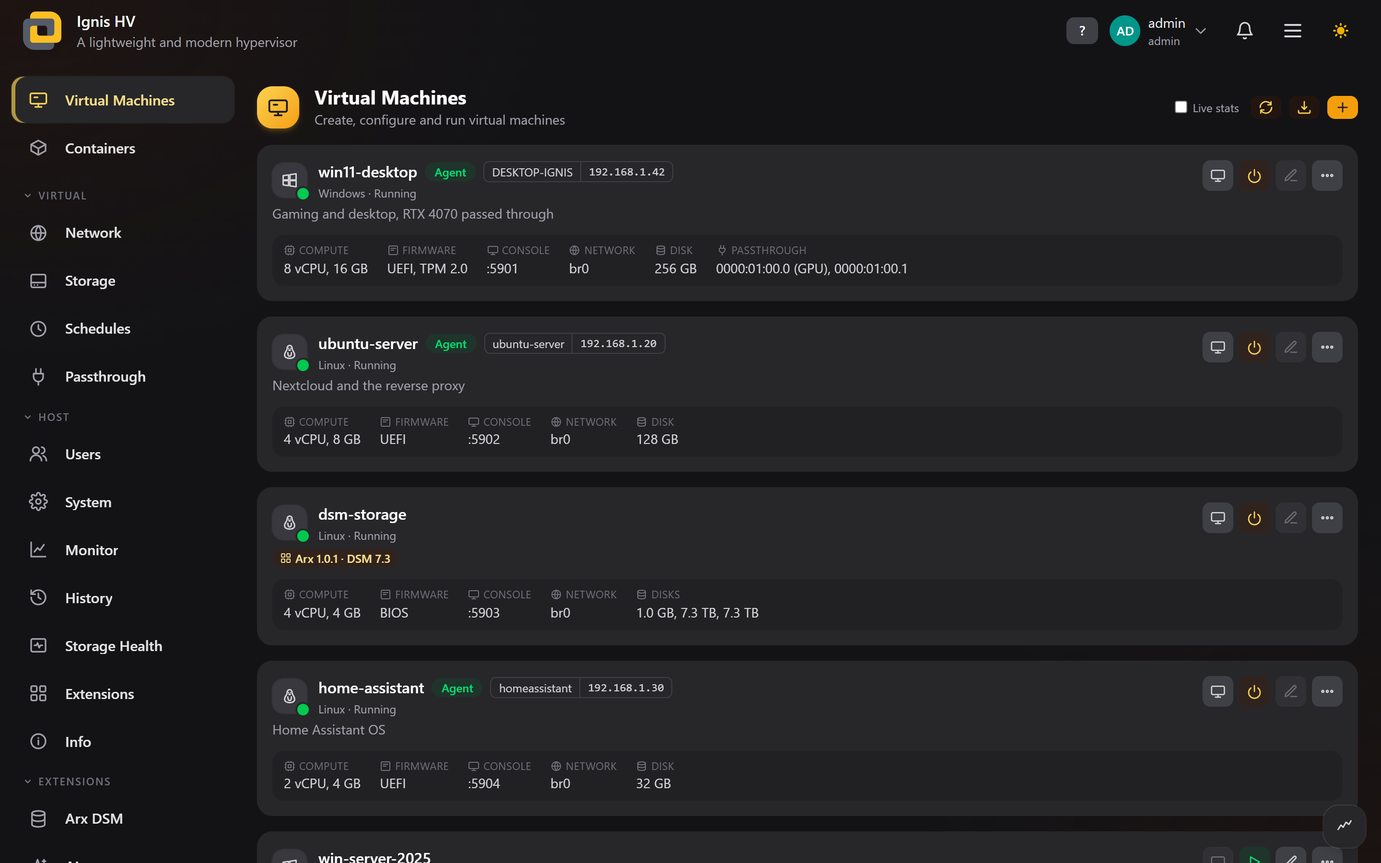
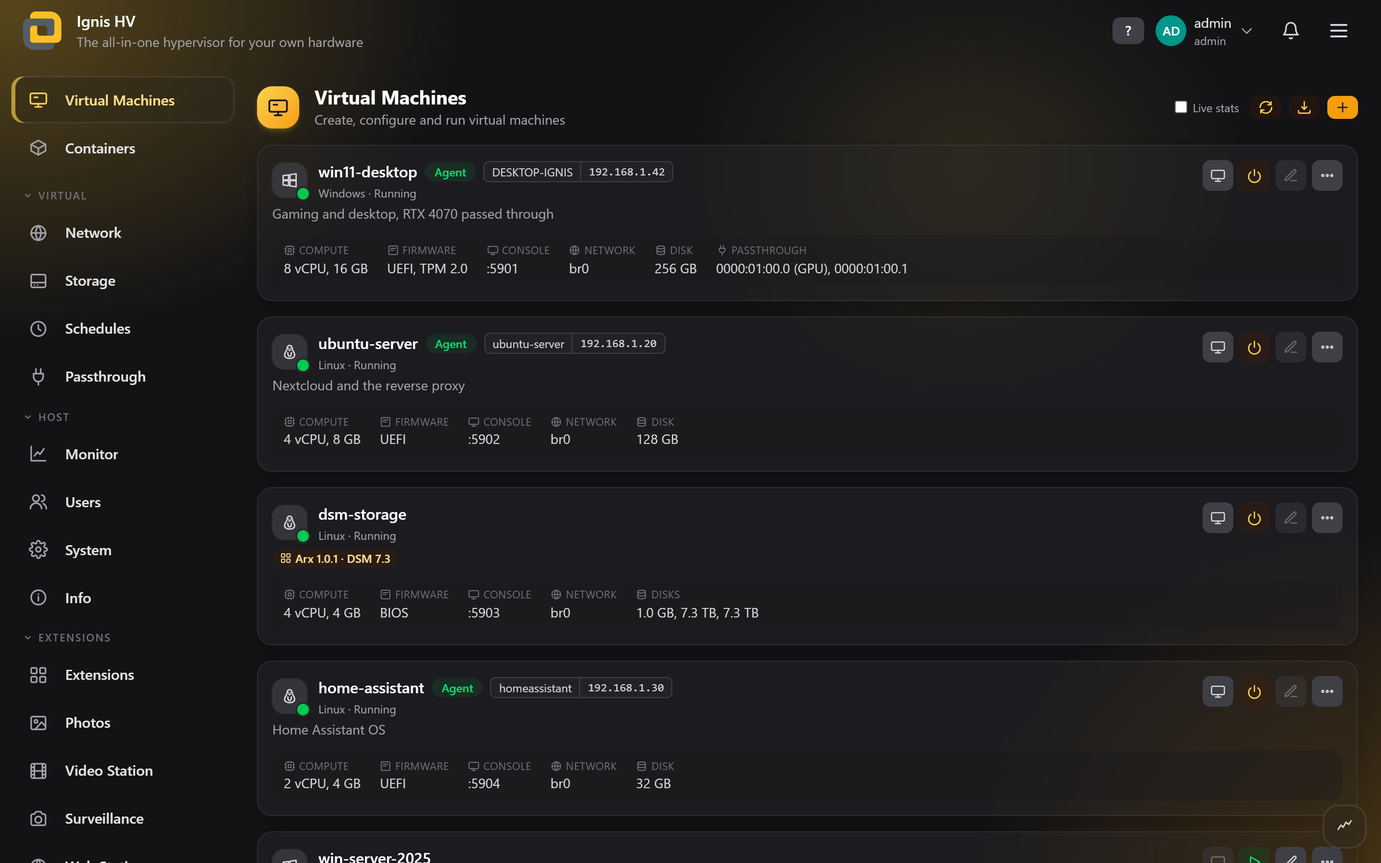
readme: the apps, two-factor sign-in, linked hosts and new screenshots
The README now describes Ignis for users: what each part does, the twenty apps on the Extensions tab, the new tagline, and the current pages. The extensions README lists every extension in plain words and the icons added since October. The six screenshots show the current interface.

diff --git a/README.md b/README.md
@@ -2,9 +2,9 @@
 
 <img width="160" alt="Ignis" src="assets/ignis.svg">
 
-### Ignis — Hypervisor for your own hardware
+### Ignis — The all-in-one hypervisor for your own hardware
 
-Run virtual machines and containers on your own x86-64 PC or server.<br>
+Run virtual machines, containers and apps on your own x86-64 PC or server.<br>
 Install it once, then manage everything from your browser.
 
 <a href="https://github.com/AuxXxilium/ignis-hv/releases/latest"><img alt="Download" src="https://img.shields.io/badge/download-red?style=for-the-badge&label=latest&color=%23FF0000"></a>
@@ -29,86 +29,125 @@ Install it once, then manage everything from your browser.
 
 ## ✨ What Ignis does
 
-Ignis turns a PC or server into a small, dedicated host for virtual machines and containers. You install it from a USB stick, and from then on everything is done in the browser at `https://<your-ignis-address>`. No desktop, no separate management tool.
+Ignis turns a PC or server into a small, dedicated host for virtual machines, containers and apps. You install it from a USB stick, and from then on you do everything in your browser at `https://<your-ignis-address>`. You don't need a desktop or any other program.
 
-* **Virtual machines**: create, edit, clone and run Windows, Windows Server and Linux machines, with BIOS or UEFI and Secure Boot. Each machine can have its own TPM 2.0, so Windows 11 installs without workarounds
-* **CPU of your choice**: give a machine the host's own processor, or a named generation from Core 2 to Zen 5 that it can keep when it moves to other hardware. Ignis says what the host cannot provide
-* **Screen in the browser**: open any machine's display in a browser tab, change its CD/DVD while it runs, and read its serial output even after it has stopped
-* **Snapshots and schedules**: take snapshots and roll back to them, and start, shut down, snapshot or back up machines on a timetable. Old snapshots are cleaned up for you
+### 🖥 Virtual machines
+
+* **Windows and Linux**: create, edit, clone and run Windows, Windows Server and Linux machines. Each machine can have its own TPM 2.0 and Secure Boot with Microsoft's keys, so Windows 11 installs without workarounds
+* **Screen in the browser**: open a machine's display in a browser tab. You can change its CD/DVD, and shut it down, reset it or power it off from the same window
+* **Snapshots and backups**: save a machine's state and go back to it. Back it up on a timetable, and old snapshots are cleaned up for you
+* **Import and export**: bring in machines from ESXi, Hyper-V, VirtualBox or an `.ova` file, and export them as `.ova` for other systems
+* **Your choice of CPU**: give a machine the host's own processor, or a fixed generation it keeps when you move it to other hardware
+* **Passthrough**: give a machine a real graphics card, network card, disk controller, USB device or a whole disk
 * **Start at boot**: choose which machines start with the host, and in what order
-* **Import and export**: bring in an `.ova` or disks from ESXi, Hyper-V or VirtualBox, which are converted for you. Export a machine as an `.ova` that other hypervisors accept, in the background with a progress bar, or on a schedule as a backup
-* **Containers**: run Docker containers and compose projects next to your machines. You can update them by hand or on a schedule, and give each one a disk priority. Docker is an optional extension, installed from the Extensions tab like any other and updated on its own
-* **Passthrough**: give a machine a real graphics card, network card, disk controller, USB device or whole disk. Ignis shows which devices can be handed over safely
-* **NVIDIA for containers**: an optional extension adds the NVIDIA driver, so containers can use the GPU
-* **3D graphics for Linux machines**: an optional extension adds a VirtIO GPU (3D), which draws a Linux guest's OpenGL and Vulkan on the host's Intel, AMD or NVIDIA GPU, with no card passed through
-* **Firewall**: an optional extension decides which services on the appliance can be reached, and from where. The web interface, SSH and the consoles always stay open, and a change undoes itself unless you confirm it
-* **AdGuard Home**: an optional extension runs AdGuard Home natively on the appliance as the DNS server for your network, and you control it from inside Ignis
-* **Network shares**: an optional extension shares folders on your storage over SMB, the way a NAS does, with share-only accounts
-* **DSM machines**: an optional extension sets up Synology DSM machines on the Arx loader, ready for DSM's installer on the first start, and keeps their loader up to date
-* **AI**: an optional extension runs language models on the appliance with Ollama, on its NVIDIA, Intel or AMD GPU (CUDA, Vulkan or ROCm), beside online providers such as OpenAI, Anthropic and Gemini with your own keys. One chat for all of them, and one OpenAI- and Ollama-compatible API with its own tokens, so other apps use every model without holding a provider's key
-* **Storage**: install to one disk or several with software RAID, and add more disks later as extra volumes (ext4, XFS or btrfs, alone or as RAID)
-* **Storage health**: see the errors your disks, arrays and filesystems have recorded, run self-tests and read-only surface scans, check all data for silent damage once a month, and let idle disks spin down
-* **History**: what the host and each machine did, recorded in the background — CPU, memory, temperatures, fans, disks and network for the host, and CPU, memory, disk and network for every machine — kept at full detail for two days and as 15-minute averages for a month, with CSV export. Recording never keeps a disk from spinning down
-* **Networking**: private networks with NAT, or bridges that put machines directly on your network. VLANs and bonded network cards are supported
+
+### 📦 Containers
+
+* **Docker in the browser**: create and run containers and compose projects, see their logs and live usage, and manage their networks and volumes
+* **Easy updates**: update by hand or on a timetable. If an update fails, the old version comes back
+
+### 🗄 Storage and the host
+
+* **Disks your way**: the system on one disk or a mirror, your data on one disk or software RAID. Add more disks later as extra volumes
+* **Storage Health**: see disk errors, run disk tests, check your data for hidden damage once a month, and let idle disks spin down
+* **Monitor and History**: what the host and every machine are doing right now, and over the last hour, day, week or month
+* **Several hosts as one**: link your Ignis hosts and run their machines from one interface. A machine can have a standby copy on a second host, ready if the first one fails
+* **For your smart home**: a read-only interface for Home Assistant, Prometheus and similar apps
+
+### 🌐 Network
+
+* **Networks for your machines**: private networks, or bridges that put machines straight on your network. VLANs and bonded network cards are supported, also per machine
+* **HTTPS**: with your own certificate or a free one from Let's Encrypt
+
+### 🔐 Sign-in and security
+
 * **Users and roles**: admin, operator and viewer accounts, each limited to the machines and pages you choose
-* **Host controls**: live monitoring, CPU speed and power settings, fan curves, time, services, and HTTPS with your own certificate or a free one from Let's Encrypt
-* **Extensions**: add services, commands or pages to the appliance, and they survive updates. Install and update them from the Ignis releases on the Extensions tab, or upload your own
-* **Safe updates**: install the newest release straight from the System tab, or a version from a file or a link. The previous version is kept, so you can go back to it from the boot menu
+* **Two-factor sign-in**: with an authenticator app, recovery codes for emergencies and codes by email. A browser you trust can skip the code for 30 days
+* **Screen lock**: Ignis locks itself after the time you choose, and you unlock it with your password
+
+### 🧩 Apps
+
+Add apps from the **Extensions** tab. Install only the ones you need; each one is updated on its own, apart from Ignis.
+
+| App | What it does |
+| :-- | :-- |
+| **Docker** | Runs containers on the Containers page |
+| **Network Shares** | Shares folders over SMB like a NAS, and over SFTP and FTPS if you want |
+| **Drive** | Your shared folders in the browser: upload, preview, and share files with a link, also with people who have no account |
+| **Photos** | Your photos as a timeline and in albums, sorted by people, places and things. Edit and share them |
+| **Video Station** | Your movies and TV shows with posters, played in the browser. Also plays on TVs, consoles and Kodi |
+| **Surveillance** | Records your IP cameras, live view in a grid, motion events and playback. Can recognise people, vehicles, faces and number plates, and alert you |
+| **Download Station** | Downloads links, torrents and magnet links into a folder you choose |
+| **Web Station** | Hosts your own websites with PHP and databases, including WordPress in one click, each with its own certificate |
+| **Mail Server** | Email for your own domain, with webmail, a spam filter and help with the DNS settings |
+| **VPN** | Reach your home network from anywhere with WireGuard, OpenVPN, IPsec or Tailscale, or send machines and containers through a VPN |
+| **SAN Manager** | Offers storage to other computers over iSCSI |
+| **Game Servers** | Runs servers for Minecraft, Valheim, Factorio and about 145 more games, with a console, backups and timetables |
+| **AI** | Runs language models on your own GPU, beside online services such as OpenAI, Anthropic and Gemini, all in one chat |
+| **DSM machines** | Sets up Synology DSM machines with the Arx loader and keeps the loader up to date |
+| **AdGuard Home** | Blocks ads and trackers for your whole network as its DNS server |
+| **DHCP Server** | Hands out addresses on the networks you choose |
+| **Firewall** | Decides who can reach which service on Ignis, and can filter traffic between two network ports |
+| **NVIDIA** | The NVIDIA driver, so containers can use the GPU |
+| **Video Compute Runtime** | Video conversion on your GPU for the media apps, and 3D graphics for Linux machines without passing a card through |
+| **Vision Runtime** | The image recognition that Photos and Surveillance use |
+
+> [!NOTE]
+> Some of these apps are brand new. If one is not on the Extensions tab yet, it comes with one of the next releases. **Web Station** needs ports 80 and 443 for your websites, so it moves the Ignis interface to ports 8080 and 8443. It asks you to confirm the move first.
+
+You can also make an app of your own. See [extensions](extensions/README.md).
 
 ---
 
 ## 🧭 How it works
 
 ```
-USB stick → Installer → choose disks and RAID → Ignis on the machine's own disks
-                                                   └─ web interface at https://<address>
-                                                        ├─ virtual machines (KVM/QEMU)
-                                                        ├─ containers (Docker)
-                                                        └─ host: storage, network, users, updates
+USB stick → Installer → choose disks → Ignis on the machine's own disks
+                                          └─ web interface at https://<address>
+                                               ├─ virtual machines
+                                               ├─ containers
+                                               ├─ apps
+                                               └─ host: storage, network, users, updates
 ```
 
-Ignis keeps two things apart: **the system**, which is small and replaced as a whole by each update, and **your data**: machines, disk images, ISOs, containers and settings. Your data lives on its own volume, so an update never touches it and a failed update can be undone.
+Ignis keeps two things apart: **the system**, which each update replaces as a whole, and **your data**: machines, disk images, containers, apps and settings. Your data lives on a volume of its own, so an update never touches it, and a failed update can be undone.
 
 ---
 
-## 🖥 The web interface
+## 🖱 The web interface
 
 | Page | What you do there |
 | :-- | :-- |
-| **Virtual Machines** | Create, start, stop and edit machines, open their display, change discs, take snapshots, clone, import and export as `.ova` |
-| **Containers** | Run containers and compose projects, pull images, update and clean up |
-| **Network** | Private and bridged networks for machines, plus the host's own address, VLANs and bonds |
-| **Storage** | Disk images, ISOs, uploads and extra storage volumes |
-| **Schedules** | Timed start, shutdown, snapshot, `.ova` backup, container update and data check tasks |
-| **Passthrough** | Graphics cards, PCI devices and USB devices that machines can use |
-| **Users** | Accounts, roles, and which machines and pages each user sees |
-| **System** | Network, time, services, HTTPS and updates |
-| **Monitor** | Live CPU, memory, network and temperature readings, plus CPU and fan control |
-| **History** | What the host and each machine did over the last hour, day, week or month, with CSV export |
-| **Storage Health** | Disk, RAID and filesystem errors, self-tests, surface scans, the monthly data check and disk spin-down |
-| **Extensions** | Install, update, enable and remove extensions, from the Ignis releases or your own upload |
+| **Virtual Machines** | Create, start, stop and edit machines, open their display, take snapshots, clone, import and export |
+| **Containers** | Run containers and compose projects, see their logs and usage, update and clean up |
+| **Network** | Networks for your machines, VLANs and bonds |
+| **Storage** | Disk images, ISOs, uploads and extra volumes, shown like a file manager |
+| **Schedules** | Timed start, shutdown, snapshot, backup, container and data check tasks |
+| **Passthrough** | Graphics cards, PCI and USB devices your machines can use |
+| **Monitor** | The host right now, its **History** over time, and **Storage Health** |
+| **Users** | Accounts, roles, and who sees which machines and pages |
+| **System** | The host's name, network, time, CPU and fans, linked hosts, the smart home interface, email, services, updates and a terminal |
+| **Extensions** | Install, update, turn on and remove apps |
 | **Info** | What this host supports, and a report to copy into a bug report |
 
-Every page has a **?** button with help written for that page, including what common error messages mean.
+Every page has a **?** button with help for that page.
 
-On **Monitor**, **History** and **Storage Health** you arrange the cards yourself: drag them where you want them and make them as wide as you like.
-
-The interface has a light and a dark mode and several accent colours to choose from.
+Pick the look you like from the account menu: a light or dark mode, an accent colour, and either the classic layout with a sidebar or a **desktop** where every page opens in a window of its own, with a taskbar and wallpapers.
 
 ### 📸 A look inside
 
 <table>
   <tr>
-    <td width="50%"><img alt="Monitor: live CPU, memory, load and every core" src="assets/screenshots/monitor.png"><br><sub><b>Monitor</b>: the host right now, down to every core and its clock</sub></td>
-    <td width="50%"><img alt="History: the last day of CPU, memory, temperatures, fans and network" src="assets/screenshots/history.png"><br><sub><b>History</b>: the last hour, day, week or month, host and machines</sub></td>
+    <td width="50%"><img alt="Monitor: live CPU, memory, load and every core" src="assets/screenshots/monitor.png"><br><sub><b>Monitor</b>: the host right now, down to every core</sub></td>
+    <td width="50%"><img alt="History: the last day of CPU, memory, temperatures, fans and network" src="assets/screenshots/history.png"><br><sub><b>History</b>: the last hour, day, week or month</sub></td>
   </tr>
   <tr>
-    <td width="50%"><img alt="The machine editor on its General tab" src="assets/screenshots/vm-editor.png"><br><sub><b>Machine editor</b>: CPU, memory, firmware, TPM and the guest's OS on one tab</sub></td>
-    <td width="50%"><img alt="Containers: Docker, its containers and a compose project" src="assets/screenshots/containers.png"><br><sub><b>Containers</b>: Docker containers and compose projects beside the machines</sub></td>
+    <td width="50%"><img alt="The machine editor on its General tab" src="assets/screenshots/vm-editor.png"><br><sub><b>Machine editor</b>: CPU, memory, firmware and TPM on one tab</sub></td>
+    <td width="50%"><img alt="Containers: the container list with an immich compose project" src="assets/screenshots/containers.png"><br><sub><b>Containers</b>: containers with their logs, details and updates, beside the machines</sub></td>
   </tr>
   <tr>
-    <td width="50%"><img alt="Extensions: Docker, Arx DSM, AI, AdGuard Home, Firewall and Network Shares" src="assets/screenshots/extensions.png"><br><sub><b>Extensions</b>: add only what you use, each updated on its own</sub></td>
-    <td width="50%"><img alt="Virtual Machines in the dark mode" src="assets/screenshots/machines.png"><br><sub><b>Virtual Machines</b>: guest agent, addresses and passthrough at a glance</sub></td>
+    <td width="50%"><img alt="Extensions: apps to download and the ones installed" src="assets/screenshots/extensions.png"><br><sub><b>Extensions</b>: install the apps you want, each updated on its own</sub></td>
+    <td width="50%"><img alt="Virtual Machines in the dark mode" src="assets/screenshots/machines.png"><br><sub><b>Virtual Machines</b>: everything about a machine at a glance</sub></td>
   </tr>
 </table>
 
@@ -118,49 +157,49 @@ The interface has a light and a dark mode and several accent colours to choose f
 
 ## 📋 What you need
 
-* An x86-64 machine you own, with virtualisation (Intel VT-x or AMD-V) turned on in the bios
-* For passthrough: an IOMMU (Intel VT-d or AMD-Vi), also turned on in the bios
+* An x86-64 PC or server, with virtualisation (Intel VT-x or AMD-V) turned on in the BIOS
+* For passthrough: Intel VT-d or AMD-Vi, also turned on in the BIOS
 * A USB stick for the installer
-* One or more disks for Ignis. 64 GB or more is a good start, and your machines need room on top of that
+* At least one disk for Ignis. 64 GB or more is a good start, plus room for your machines
 * Two or more disks if you want RAID
 * A wired network
 
-The **Info** page shows what your host supports once Ignis is running, and says what is missing if something is.
+Once Ignis is running, the **Info** page shows what your host supports, and what is missing.
 
 ---
 
 ## 💿 Installing
 
 1. Download the latest ISO from the [releases](https://github.com/AuxXxilium/ignis-hv/releases/latest) and write it to a USB stick
-2. Boot the machine from the stick and choose **Install**
+2. Start the machine from the stick and choose **Install**
 3. Pick the disks to install to. **Everything on them is erased**
-4. Choose how the disks work together, for the system and for your data separately: a single disk, a mirror, or another RAID level. Only the levels your disk count allows are offered
+4. Choose where the system goes (one disk or a mirror) and how the disks for your data work together. Only the options your disks allow are offered
 5. Set a root password
-6. Remove the stick and reboot. The screen shows the address to open in your browser. Sign in as `root`
+6. Remove the stick and restart. The screen shows the address to open in your browser. Sign in as `root`
 
-With several disks, Ignis puts a boot loader on every one of them, so the machine still boots if one disk fails.
+With several disks, every disk can start Ignis, so the machine still boots if one of them fails.
 
 ---
 
 ## ⬆ Updates
 
-Updates are done under **System → Update**. It shows the newest release that carries an update, and **Download and stage** fetches it on the appliance and checks it against the SHA-256 GitHub records for the file. You can also give it an update file, or a link to one from the [releases](https://github.com/AuxXxilium/ignis-hv/releases/latest). Ignis prepares the new version next to the running one, and your machines keep running while it does. When you click **Apply**, it restarts into the new version.
+Ignis checks for new releases by itself and tells you through the bell at the top. You install them under **System → Update**: **Download and stage** fetches the new version and checks it, and your machines keep running meanwhile. **Apply** restarts into the new version.
 
-Extensions are updated on their own, from the **Extensions** tab: it lists what the releases offer for your system and installs or updates it there.
+Apps are updated on their own, on the **Extensions** tab.
 
-Your settings, passwords and certificates are carried across. Machines, disk images, containers, networks and users are never touched by an update.
+Your settings, passwords and certificates are kept. Machines, disk images, containers, networks, users and app data are never touched by an update.
 
-The previous version is kept for one update cycle. If something is wrong, choose it from the boot menu to go back.
+The previous version is kept. If something is wrong after an update, choose it from the boot menu to go back.
 
 ---
 
 ## 🔒 Security
 
-* Every action in the interface checks who is signed in and what they are allowed to do. Hiding a page in the interface is not what protects it
-* Failed sign-ins are rate-limited, and repeated guessing at the login page or SSH gets the address blocked for a while
-* A machine's display is only reachable through the signed-in web interface, never directly over the network
-* HTTPS is available with a self-signed certificate, one you upload, or a free one from Let's Encrypt
-* Extensions and containers run with a lot of access to the host, so install only what you trust. Only admins can manage them
+* Every action checks who is signed in and what they may do
+* Repeated wrong passwords at the login page or over SSH get the address blocked for a while
+* Two-factor sign-in and the screen lock protect your account, even on a shared computer
+* A machine's display can only be opened through the signed-in web interface
+* Apps and containers have a lot of access to the host, so install only what you trust. Only admins can manage them
 
 ---
 

diff --git a/extensions/README.md b/extensions/README.md
@@ -48,19 +48,29 @@ publish, and installs or updates it from there:
 
 | Extension | What it is |
 | :-- | :-- |
-| `ignis-docker` | Docker Engine, containerd, runc and Compose for the Containers tab: Docker's own static release, so it survives Ignis updates and is updated on its own. Docker still starts at boot, as it always did. Images and containers stay on disk while it is disabled |
-| `ignis-firewall` | Which services on the appliance can be reached, and from where. The web interface, SSH and the consoles always stay open, and every change undoes itself after a minute unless you confirm it. Locked out anyway? `ignis-ext disable ignis-firewall` on the console |
-| `ignis-adguard` | AdGuard Home, running natively as the DNS server for your network. Controlled from its page in Ignis, with AdGuard's own interface a click away. Needs port 53, so dnsmasq must be off under **System > Services** |
-| `ignis-shares` | Folders on your storage shared over SMB, like a NAS. Accounts made here open the shares and nothing else. Needs **SMB** on under **System > Services** |
-| `ignis-arx` | Synology DSM machines on the Arx loader. Makes the machine, downloads and checks the newest loader, and can configure it so the first start goes straight to DSM's installer. Updates the loader later while keeping its configuration. The machines are ordinary ones in **Machines**, where their card shows the loader and DSM versions |
-| `ignis-ai` | Local language models with Ollama on the appliance's NVIDIA, Intel or AMD GPU, beside the online providers (OpenAI, Anthropic, Gemini and a dozen more, or any endpoint of your own): one chat, and one OpenAI- and Ollama-compatible API with its own tokens for other apps. Ported from Arc AI. The engine is downloaded from its page, and it and the models live on the data volume: uninstalling removes the engine and keeps the models. Intel and AMD GPUs compute through the Vulkan drivers built into Ignis |
-| `ignis-nvidia` | The NVIDIA driver for containers. Built for one Ignis release's kernel: the tab offers only the package for the kernel your system runs, and a release that changes the kernel carries a new one |
-| `ignis-gpu3d` | VirtIO GPU (3D) for Linux machines: their OpenGL and Vulkan drawn on the host's Intel, AMD or NVIDIA GPU, with no card passed through. Nothing is added to the system; only a machine with the 3D display uses it. Built with one Ignis release's QEMU, so after an update the machine editor stops offering 3D until the package for the new release is installed, which the tab offers |
+| `ignis-docker` | Docker for the Containers page. Images and containers stay on disk while it is turned off |
+| `ignis-shares` | Network Shares: folders shared over SMB like a NAS, and over SFTP and FTPS if you want. Accounts made here open the shares and nothing else |
+| `ignis-drive` | Drive: the shared folders in the browser, with uploads, previews and share links for people without an account |
+| `ignis-photos` | Photos: a timeline, albums, people, places and things, editing and sharing |
+| `ignis-video` | Video Station: movies and TV shows in the browser, and a DLNA server for TVs, consoles and Kodi |
+| `ignis-surveillance` | Surveillance: records IP cameras, live view, motion events and playback, and recognises people, vehicles, faces and plates |
+| `ignis-downloads` | Download Station: links, torrents and magnet links into a folder you choose |
+| `ignis-web` | Web Station: your own websites with PHP and databases, WordPress in one click. Takes ports 80 and 443, so the interface moves to 8080 and 8443 |
+| `ignis-mail` | Mail Server: email for your own domain, with webmail and a spam filter. Needs Web Station for webmail |
+| `ignis-vpn` | VPN: WireGuard, OpenVPN, IPsec and Tailscale, to reach home or to send machines and containers through a VPN |
+| `ignis-san` | SAN Manager: storage for other computers over iSCSI |
+| `ignis-games` | Game Servers: about 150 games, with a console, backups and timetables. Needs Docker |
+| `ignis-ai` | AI: language models on your own GPU beside online services, in one chat, with an API for other apps |
+| `ignis-arx` | Synology DSM machines on the Arx loader, kept up to date |
+| `ignis-adguard` | AdGuard Home as the DNS server for your network. Needs port 53, so dnsmasq must be off under **System > Services** |
+| `ignis-dhcp` | A DHCP server for the networks you choose |
+| `ignis-firewall` | Who can reach which service, and filtering between two network ports. The interface, SSH and the consoles always stay open, and a change undoes itself unless you confirm it. Locked out anyway? `ignis-ext disable ignis-firewall` on the console |
+| `ignis-nvidia` | The NVIDIA driver for containers. Made for one Ignis release's kernel, so the tab offers the one that fits your system |
+| `ignis-vcrt` | Video Compute Runtime: video conversion on the GPU for the media apps, and 3D graphics for Linux machines. Made for one Ignis release, so the tab offers the one that fits |
+| `ignis-vision` | Vision Runtime: the image recognition Photos and Surveillance use |
 
-The firewall, AdGuard Home, shares and Arx extensions each have a page with an
-endpoint of its own, the way described under [An endpoint of your
-own](#an-endpoint-of-your-own). The AI extension's page talks to a gateway of
-its own instead.
+Every extension with a page has an endpoint of its own next to it, the way
+described under [An endpoint of your own](#an-endpoint-of-your-own).
 
 ### Where they come from
 
@@ -117,7 +127,10 @@ my-extension/
     `restart`, `schedules`, `search`, `shield`, `shutdown`, `sliders`,
     `sparkles`, `spinner`, `start`, `stop`, `storage`, `sun`, `system`, `tag`,
     `terminal`, `thermometer`, `timer`, `trash`, `upload`, `usb`, `user`,
-    `userPlus`, `users`, `warning`, `zap`
+    `userPlus`, `users`, `warning`, `zap`, and since November also `apps`,
+    `arrowUp`, `chevronDown`, `close`, `eye`, `film`, `gamepad`, `helpCircle`,
+    `image`, `layoutDesktop`, `layoutSidebar`, `mail`, `maximize`, `minimize`,
+    `pin`, `restoreWindow`, `showDesktop`, `snapLeft`, `snapRight`
   - **Anything else** is shown as written, which is how an emoji works. A name
     Ignis does not have is shown as plain text too, so check the spelling
     against the file
